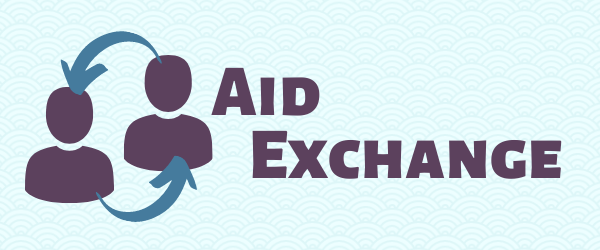
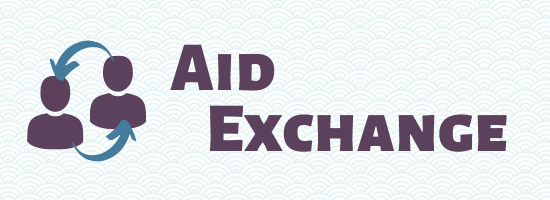
Bugfixes, tweak login header

diff --git a/client/src/pages/ListingDetail.js b/client/src/pages/ListingDetail.js
@@ -70,10 +70,10 @@ export default function ListingDetail() {
                   )}
 
                   {listing.userId === uid ? (
-                    <Button
+                    <Button as={Link}
                       className="editProfile"
                       variant="dark"
-                      href={"/editlisting/" + id}
+                      to={"/editlisting/" + id}
                     >
                       Edit Listing
                     </Button>

diff --git a/client/src/Components/Jumbotron/header.js b/client/src/Components/Jumbotron/header.js
@@ -3,7 +3,7 @@ import { Jumbotron, Image } from "react-bootstrap";
 
 export default function Header(props) {
     return (
-        <Jumbotron className="jumbotron jumbotron-fluid">
+        <Jumbotron className="jumbotron jumbotron-fluid py-5">
             <Image className="img-fluid splashBrand" src='../bannerBrand.png'></Image>
             <hr className='underline w-75' />
         </Jumbotron>

diff --git a/client/src/pages/ListingForm.js b/client/src/pages/ListingForm.js
@@ -113,7 +113,7 @@ export default function editListing(props) {
 
     function handleFormSubmit(event) {
         event.preventDefault();
-        if (uid !== owner) {
+        if (version === "Edit" && uid !== owner) {
             setError("Only a post's creator can edit it.")
         } else {
         setLoading(true)
